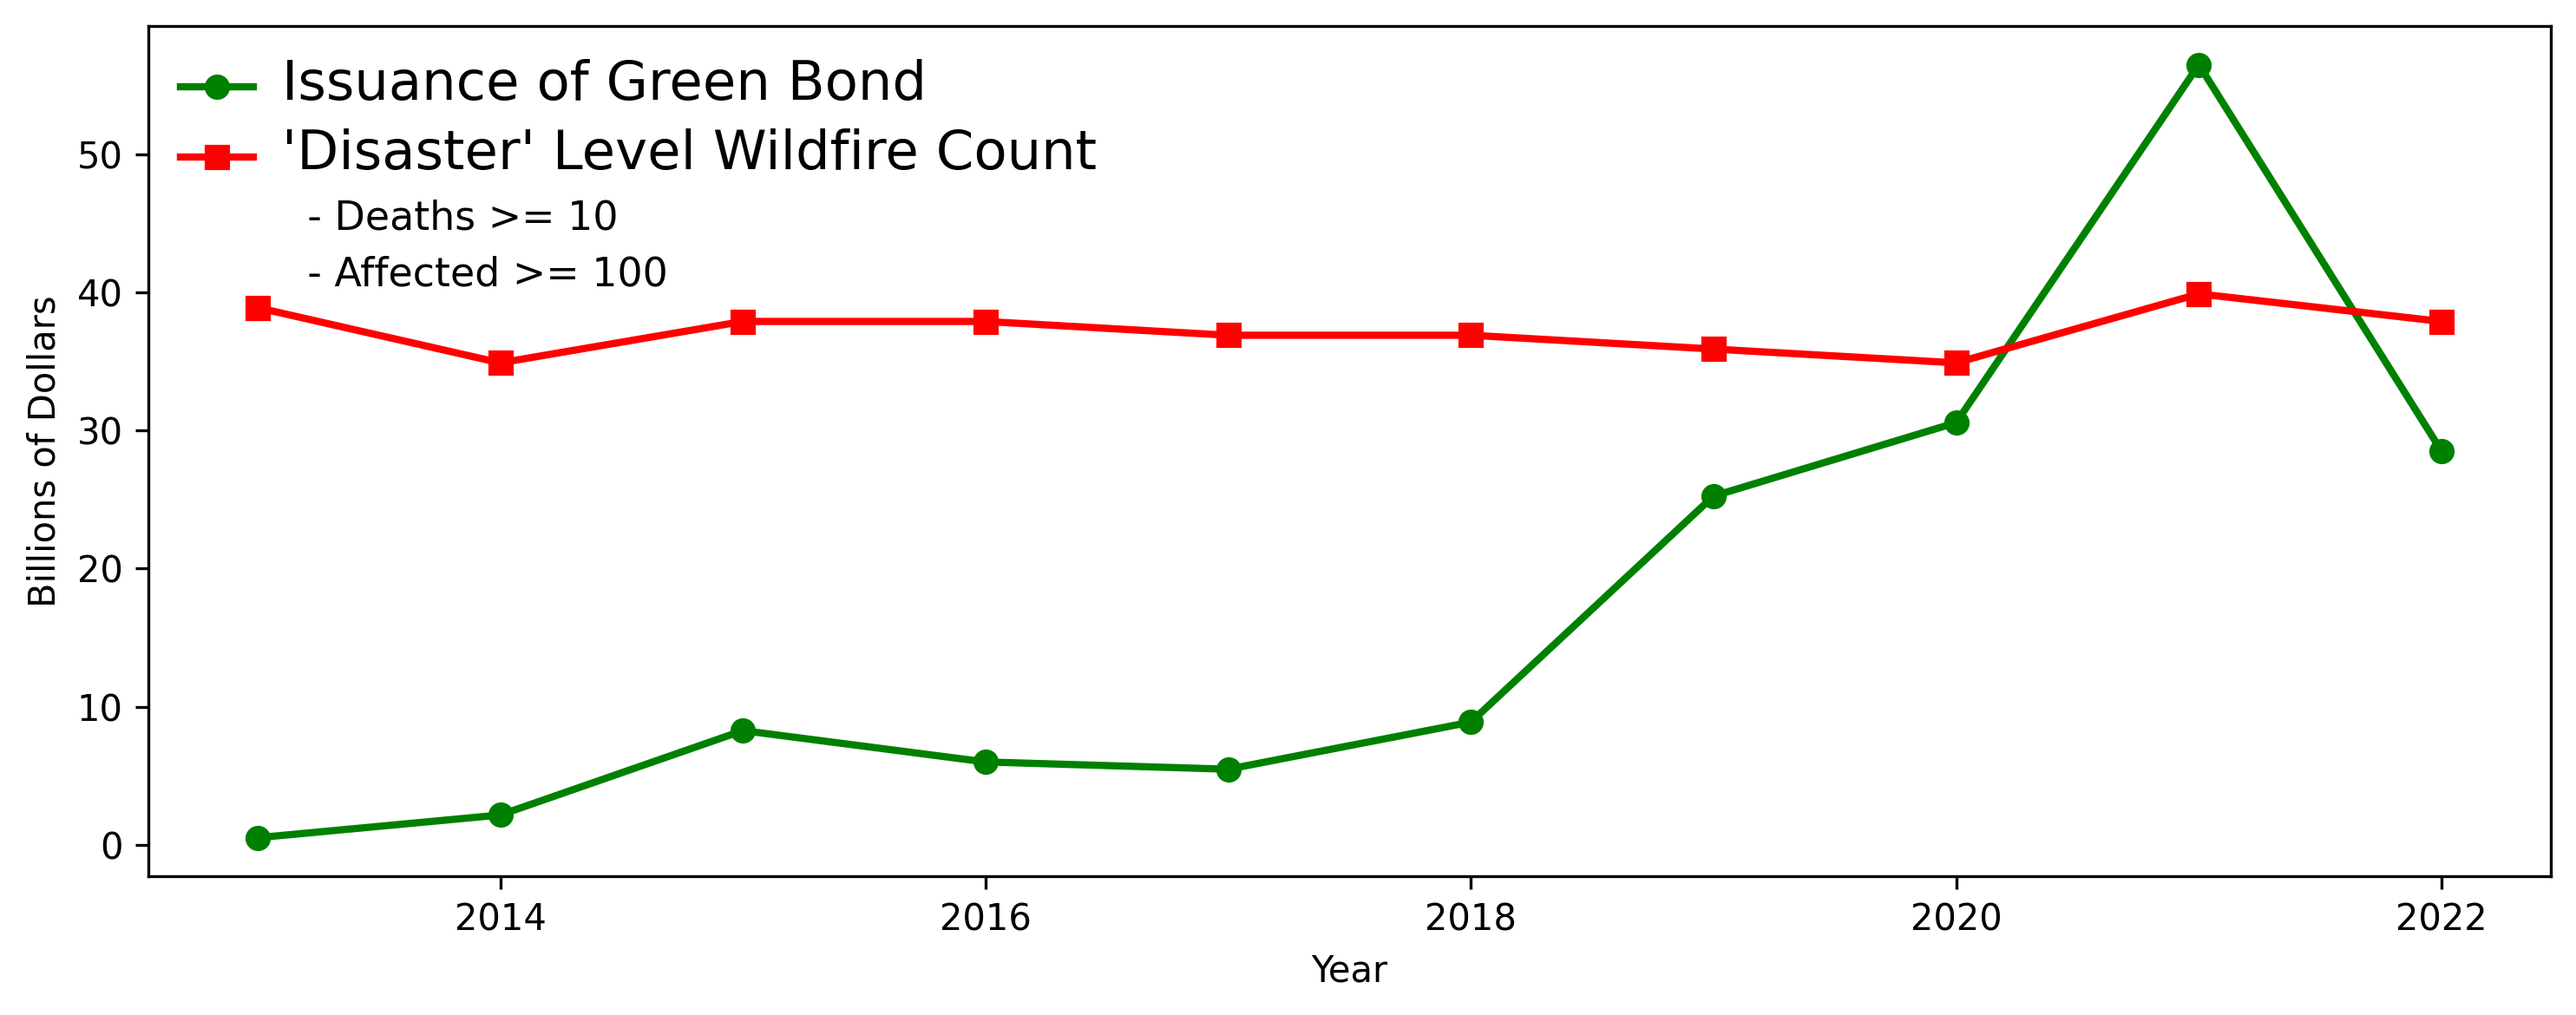
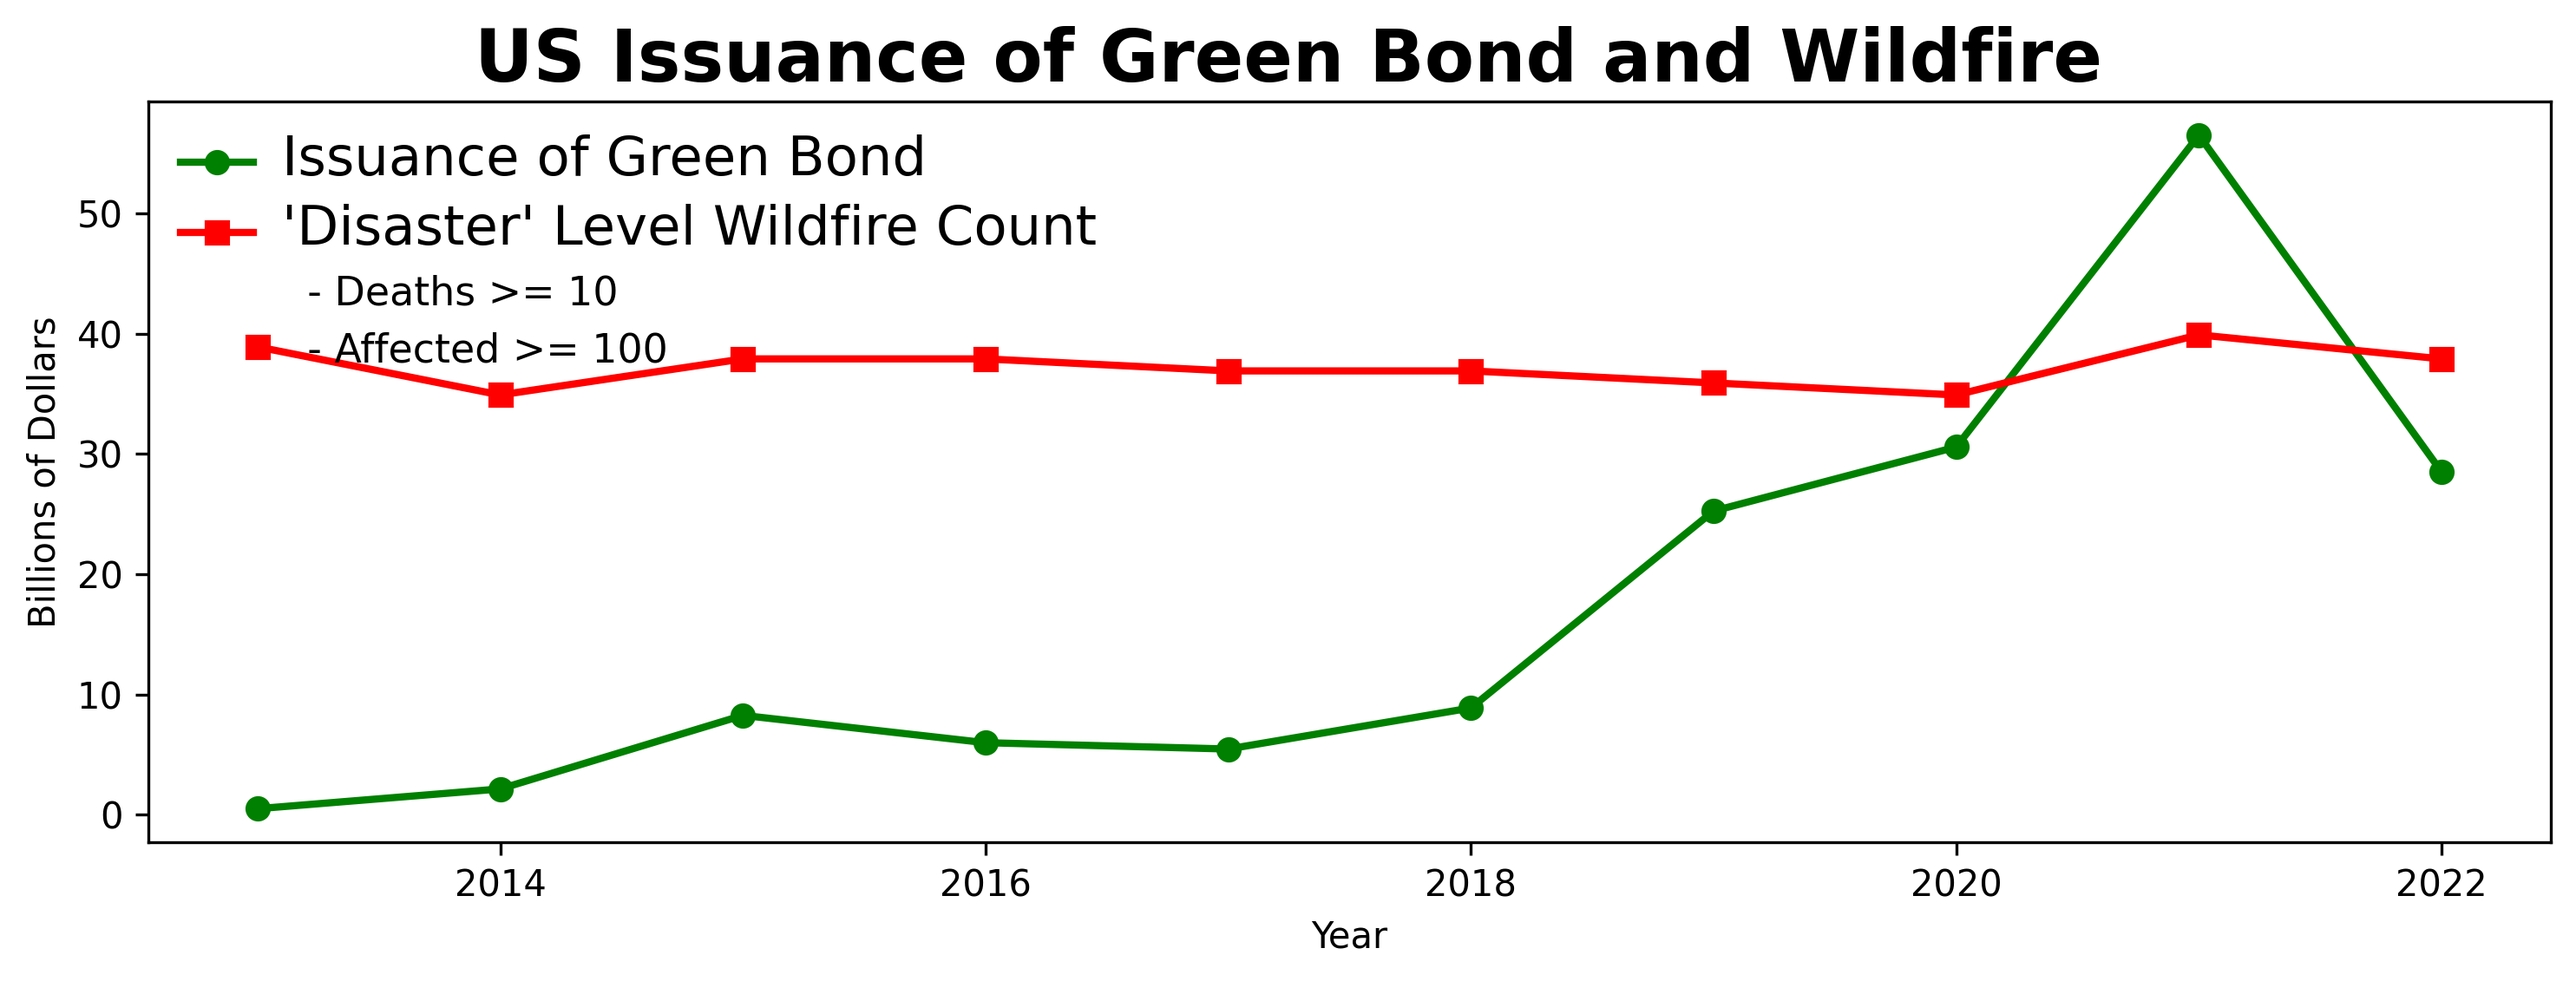
setup

diff --git a/visual.py b/visual.py
@@ -136,11 +136,21 @@ fig.suptitle(
 fig.text(
     0.5,                     # x center
     0.91,                    # just under the title
-    "Return on Investment (ROI) as metric",
+    "Country: United States",
     ha='center', 
     va='center',
     fontsize=16,
     color='gray'
+)
+# subtitle: bigger & just below the title
+fig.text(
+    0.5,                     # x center
+    0.11,                    # just under the title
+    "Return on Investment (ROI)",
+    ha='center', 
+    va='center',
+    fontsize=10,
+    color = 'blue'
 )
 
 plt.tight_layout()

diff --git a/overlay.py b/overlay.py
@@ -2,6 +2,7 @@ from PIL import Image, ImageDraw, ImageFont
 import matplotlib.pyplot as plt
 
 title_font =ImageFont.truetype("/System/Library/Fonts/Supplemental/Arial Bold.ttf", 100)
+text_font =ImageFont.truetype("/System/Library/Fonts/Supplemental/Arial Bold.ttf", 50)
 
 # Load the wildfire image (background) and the graph image
 wildfire_img = Image.open("wildfire.png").convert("RGBA")

diff --git a/visvis.py b/visvis.py
@@ -110,6 +110,13 @@ for txt in leg.get_texts()[:2]:
 for txt in leg.get_texts()[2:]:
     txt.set_fontsize(11)
 
+fig.suptitle(
+    "US Issuance of Green Bond and Wildfire", 
+    x=0.5,   # center
+    y=0.93,  # almost at the very top of the figure
+    fontsize=20,
+    fontweight='bold'
+)
 plt.tight_layout()
 plt.savefig("plot.png", dpi=300, bbox_inches="tight")
 plt.show()
